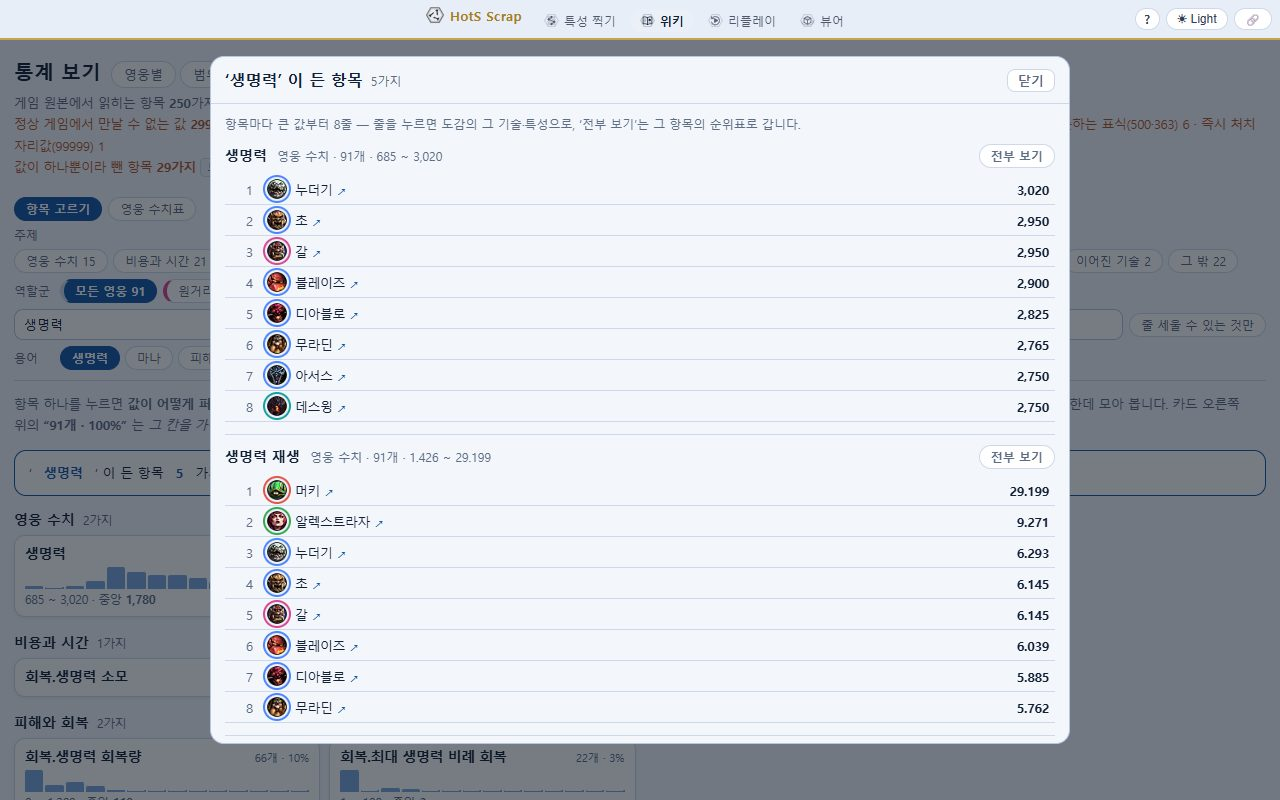
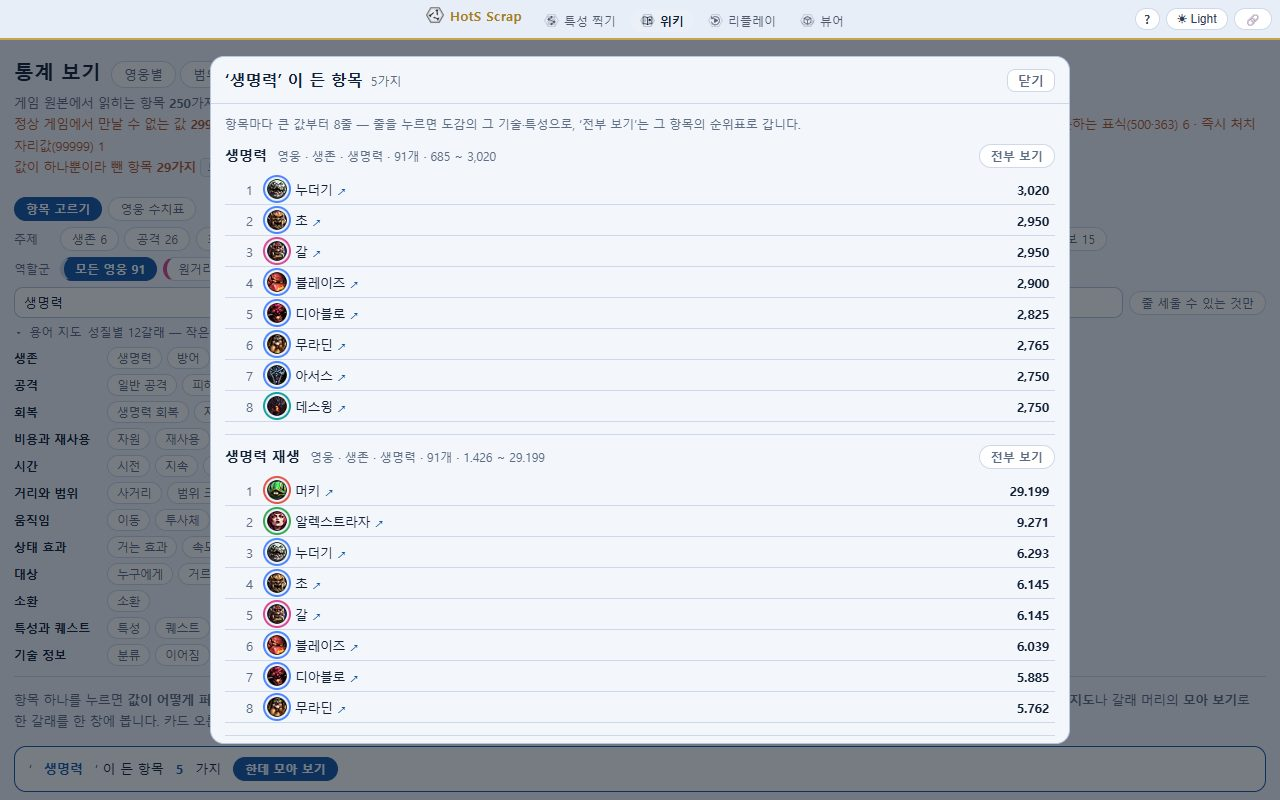
영웅 도감: 통계 보기 항목을 성질별 12갈래 · 34가지로 다시 묶음
- 정규식 주제 대신 분류표(큰 갈래 → 작은 갈래): 생존 · 공격 · 회복 · 비용과 재사용 · 시간 · 거리와 범위 ·
  움직임 · 상태 효과 · 대상 · 소환 · 특성과 퀘스트 · 기술 정보 — 250가지 모두 한 곳에만 들어감(확인)
- 용어 지도: 큰 갈래마다 작은 갈래 단추, 누르면 그 갈래 항목을 한 창에 모아 봄 · 갈래 머리에도 '모아 보기'
- 항목 이름 '거는 효과.방어력' 은 앞을 옅게, 어디서 읽은 값인지(영웅 · 기술 · 특성 …) 작은 딱지
- 사용법 글과 사진 맞춤

diff --git a/site/herodex/stats.html b/site/herodex/stats.html
@@ -153,6 +153,22 @@
   .tsec h3 { margin:0 0 6px; font-size:14px; display:flex; flex-wrap:wrap; align-items:baseline; gap:4px 10px; }
   .tsec h3 span { font-size:12px; color:var(--dim); font-weight:400; }
   .tsec .all { margin-left:auto; }
+  .tsec h3 .pre, .f h3 .pre { color:var(--dim); font-weight:400; }
+  .f h3 .fn { min-width:0; }
+  .f h3 .src, .tsec h3 .src { font-size:10.5px; color:var(--dim); border:1px solid var(--line); border-radius:6px; padding:0 5px; font-weight:400; white-space:nowrap; }
+  .subh { margin:10px 0 6px; font-size:12.5px; display:flex; align-items:center; gap:8px; color:var(--fg); }
+  .subh span { color:var(--dim); font-size:11px; font-weight:400; }
+  .topic > h2 .pill, .subh .pill { margin-left:auto; }
+  .pill.sm { font-size:11.5px; padding:2px 9px; }
+  details.tmap { display:block; }
+  details.tmap > summary { cursor:pointer; list-style:none; display:flex; align-items:baseline; gap:6px; }
+  details.tmap > summary::-webkit-details-marker { display:none; }
+  details.tmap > summary::before { content:'▸'; color:var(--dim); font-size:11px; }
+  details.tmap[open] > summary::before { content:'▾'; }
+  .tmsum { color:var(--dim); font-size:12px; }
+  #terms { display:grid; gap:5px; margin-top:7px; }
+  .tgrp { display:flex; flex-wrap:wrap; align-items:center; gap:4px 5px; }
+  .tgrp > b { font-size:12px; min-width:88px; color:var(--fg); }
 </style>
 </head>
 <body>
@@ -172,12 +188,12 @@
       <input type="search" id="q" placeholder="항목 찾기 (사거리·피해·재사용…)">
       <button class="pill" id="onlynum">줄 세울 수 있는 것만</button>
     </div>
-    <div class="row" id="termrow"><span class="lab">용어</span><span id="terms"></span></div>
+    <details class="row tmap" id="termrow"><summary><span class="lab">용어 지도</span> <span class="tmsum">성질별 12갈래 — 작은 갈래를 누르면 그 항목을 한데 모아 봅니다</span></summary><div id="terms"></div></details>
   </div>
 
   <p class="note" style="margin:2px 0 14px; font-size:12.5px;">
     항목 하나를 누르면 <b>값이 어떻게 퍼져 있는지</b>와 <b>어느 기술·특성이 그 값을 가지는지</b>가 펼쳐집니다.
-    값 한 줄을 누르면 도감의 그 기술·특성으로 갑니다. <b>용어</b>를 고르면 그 말이 들어간 항목을 한데 모아 봅니다.
+    값 한 줄을 누르면 도감의 그 기술·특성으로 갑니다. 항목은 <b>성질별 12갈래</b>로 묶었고, <b>용어 지도</b>나 갈래 머리의 <b>모아 보기</b>로 한 갈래를 한 창에 봅니다.
     카드 오른쪽 위의 <b>“91개 · 100%”</b> 는 <i>그 칸을 가진 것의 수</i>와 <i>전체 가운데 몇 %가 그 칸을 가지는지</i>입니다.
   </p>
   <div id="catalog"></div>
@@ -206,23 +222,23 @@ const fmt = v => {
   return r.toLocaleString('ko-KR');
 };
 
-/* **주제로 묶는다.** 자료를 만든 갈래(기술·위키식·원자료…)는 어디서 읽었나이지
-   무엇에 대한 값인가가 아니다. 고르는 사람에게는 뒤쪽이 필요하다. */
-const TOPIC = [
-  ['영웅 수치',   f => f.갈래 === '기본' || f.갈래 === '평타'],
-  ['비용과 시간', f => /재사용|연타 제한|시전 시간|마무리 시간|충전|마나|분노|고철|광기|취기|기력|탄약|에너지|자원|생명력 소모|처음 지연/.test(f.이름)],
-  ['날아가는 것', f => /투사체|날아가|튕기는|질주|밀침|밀리는|가속도|오는 방향|이동 거리/.test(f.이름)],
-  ['거리와 크기', f => /사거리|반지름|너비|높이|각도|히트박스|도형거리|끌기 범위|나오는 범위|부채꼴|가로|세로|크기|안쪽|바깥|뿌리는 구역|자리 패턴|나란히|둘러싼|연속 판정|방향/.test(f.이름)],
-  ['피해와 회복', f => /피해|회복|성장|흡수|틱|보호막|치유/.test(f.이름)],
-  ['소환',        f => /소환|나오는|마리|유닛/.test(f.이름)],
-  ['효과와 지속', f => /지속|주기|간격|반복|이동 속도|공격 속도|방어력|기절|감속|중첩|기술 추가|상태|보정|효과|커지는|부른 횟수|단계/.test(f.이름)],
-  ['누구에게',    f => /대상|영향|지정|고르는 차례|찾는|최대 대상|빼는/.test(f.이름)],
-  ['퀘스트와 특성', f => /퀘스트|보상|레벨|강화|툴팁 수치|예외/.test(f.이름)],
-  ['분류와 이름', f => /유형|속성|범위|기준|종류|모양|방식|갈래|칸$|모드|탈것|이름/.test(f.이름)],
-  ['이어진 기술', f => /이어짐|이어받음|딸린 곳|같은 칸/.test(f.이름)],
-  ['그 밖',       () => true],
-];
-const topicOf = f => (TOPIC.find(([, t]) => t(f)) || ['그 밖'])[0];
+/* **성질로 묶는다.** 자료를 만든 갈래(기술·위키식·원자료…)는 어디서 읽었나이지
+   무엇에 대한 값인가가 아니다. 큰 갈래 12 → 작은 갈래로 두 번 묶는다.
+   [큰 갈래, 한 줄 풀이, [[작은 갈래, [항목…]]…]] — '갈래|이름' 은 그 갈래만, 이름만 쓰면 모든 갈래.
+   '갈래|이름' 규칙이 먼저 잡는다(평타|사거리 · 기본|반지름). 표에 없는 새 항목은 '그 밖' 으로 간다. */
+const CLASSES = [["생존","얼마나 버티나 — 생명력 · 방어 · 보호막",[["생명력",["기본|생명력","기본|생명력 재생"]],["방어",["거는 효과.방어력","거는 효과.기술 방어력","거는 효과.받는 피해"]],["보호막",["거는 효과.피해 흡수"]]]],["공격","얼마나 아프게 — 일반 공격과 피해량",[["일반 공격",["평타|_이름","평타|사거리","평타|주기","평타|초당 공격","평타|방식","평타|공격력","평타|부채꼴","기본|공격 사거리","기본|공격 사거리(최대)"]],["피해량",["피해.피해량","피해.1회당","피해.툴팁 표기","피해","총 피해","틱당 피해","조건부 피해","아군이 주는 피해"]],["피해 성질",["피해.종류","피해.기술 위력 적용","피해.성장"]],["레벨 성장",["성장"]]]],["회복","얼마나 채우나 — 생명력 · 자원 회복",[["생명력 회복",["회복.생명력 회복량","회복.최대 생명력 비례 회복","회복.1회당","회복.툴팁 표기","회복.성장","회복","거는 효과.주는 치유량"]],["자원 회복",["회복.마나 회복량","회복.마나 회복","회복.최대 마나 비례 회복","회복.분노 회복","회복.광기 회복"]]]],["비용과 재사용","쓰는 데 드는 것 — 자원 · 재사용",[["자원",["기본|자원","마나","기력","분노","취기","회복.생명력 소모","회복.마나 소모","회복.기력 소모"]],["재사용",["재사용 대기시간","충전 개수","연타 제한","재사용 조정.재사용 조정","재사용 조정.대상 기술"]]]],["시간","언제 · 얼마 동안 — 시전 · 지속 · 주기",[["시전",["시전 시간","마무리 시간","모으는 시간"]],["지속",["거는 효과.지속 시간","지속","지속 효과.유지 시간","지속 시간 조정.지속 시간 조정"]],["주기와 반복",["거는 효과.주기","지속 효과.반복 횟수","지속 효과.간격","지속 효과.반복","틱 속도","틱 속도(날것)","갱신 틱"]]]],["거리와 범위","어디까지 · 얼마나 넓게",[["사거리",["사거리","최소 사거리","도형거리","전거리","끌기 범위"]],["범위 크기",["범위.반지름","반지름","범위.작은 반지름","범위.안쪽 반지름","범위.가로","범위.세로","너비","높이","범위.부채꼴","부채꼴","각도","범위.띠 두께","히트박스","아군 반지름","범위.커지는 양","찾는 반지름"]],["범위 모양",["범위","모양","자리 패턴","나란히","둘러싼 수","뿌리는 구역","범위.단계","범위.부른 횟수"]],["범위 움직임",["범위.날아가며","범위.따라감","범위.방향","연속 판정","지속 효과.앞으로","지속 효과.제자리부터","휩쓰는 차례","휩쓰는 쪽","휩쓰는 꼴","휩쓰는 시간","도는 바퀴","도는 시간","도는 꼴"]],["몸집과 시야",["기본|반지름","기본|시야"]]]],["움직임","얼마나 빠르게 · 어디로",[["이동",["기본|이동 속도","이동 거리(추정)","질주 속도","질주 거리","돌진 거리"]],["투사체",["투사체 속도","투사체.방식","투사체.최대 속도","투사체.속도","투사체.가속도","투사체.최소 속도","속도 바뀜","속도가 다른 까닭","투사체.튕기는 거리","투사체.튕기는 횟수","튕기는 거리","튕기는 횟수","오는 방향"]],["밀침",["밀침.속도","밀침.지속 시간","밀침.거리","밀침 속도","밀침 지속","밀리는 거리"]],["순간이동",["순간이동.내려놓는 각도","순간이동.내려놓는 범위","순간이동.기준"]]]],["상태 효과","맞으면 · 쓰면 걸리는 것",[["거는 효과",["거는 효과.종류","거는 효과.상태","효과","거는 효과.성장"]],["속도 변화",["거는 효과.이동 속도","거는 효과.공격 속도"]],["강화",["거는 효과.기술 피해량","거는 효과.일반 공격 피해량","거는 효과.기술 추가","보정"]]]],["대상","누구에게 · 몇에게",[["누구에게",["대상","범위.대상","지정","영향","기준","찾는 대상","아군 범위"]],["거르기와 수",["범위.빼는 대상","빼는 대상","범위.최대 대상","최소 대상","범위.고르는 차례","고르는 차례"]]]],["소환","불러내는 것",[["소환",["소환.유닛","소환.마리 수","소환.나오는 범위","소환","나오는 범위","나오는 자리"]]]],["특성과 퀘스트","레벨에서 고르고 · 쌓아서 바뀌는 것",[["특성",["특성|레벨","특성|강화","특성 강화.단계","특성 강화.내용","특성 전","보상 갈래"]],["퀘스트",["퀘스트","퀘스트 점수.한 번에","퀘스트로 바뀜.칸","퀘스트로 바뀜.전","퀘스트로 바뀜.값","퀘스트로 바뀜.방식","퀘스트로 바뀜.단위"]]]],["기술 정보","어떤 기술인가 — 분류 · 이어짐 · 툴팁",[["분류",["유형","속성","칸","모드","탈것","예외"]],["이어짐",["이어받음","이어짐","같은 칸","지속 효과.이어짐"]],["툴팁 수치",["툴팁 수치.칸","툴팁 수치.값","툴팁 수치.단위"]]]]];
+const 갈래규칙 = new Map(), 이름규칙 = new Map();
+for (const [큰, , 작들] of CLASSES)
+  for (const [작, 것들] of 작들) for (const x of 것들) (x.includes('|') ? 갈래규칙 : 이름규칙).set(x, [큰, 작]);
+const 분류of = f => 갈래규칙.get(f.열쇠) || 이름규칙.get(f.이름) || ['그 밖', '그 밖'];
+const topicOf = f => 분류of(f)[0];
+const TOPIC = [...CLASSES.map(([큰]) => [큰]), ['그 밖']];          // 차례만 쓴다
+const 큰풀이 = new Map(CLASSES.map(([큰, 말]) => [큰, 말]));
+const 작차례 = 큰 => ((CLASSES.find(c => c[0] === 큰) || [0, 0, []])[2].map(([작]) => 작)).concat(['그 밖']);
+/* 항목 이름 '거는 효과.방어력' 은 앞(묶음)을 옅게, 뒤(뜻)를 진하게 */
+const 이름글 = n => { const i = n.indexOf('.'); return i > 0 ? `<span class="pre">${esc(n.slice(0, i))} ·</span> ${esc(n.slice(i + 1))}` : esc(n); };
+/* 같은 이름이 여러 갈래에 있다(사거리 = 기술 원본 · 기술 위키식 · 특성) — 어디서 읽은 값인지 작게 */
+const 출처말 = { '기본': '영웅', '평타': '평타', '기술': '기술', '원자료': '기술 세부', '위키식': '기술 위키식', '특성': '특성', '특성 위키식': '특성 위키식' };
 
 let DB = null, ROWS = null, TAB = '칸', TOPIC_ON = new Set(), ONLYNUM = false, OPEN = null, SHOW = 60;
 /* 대상 한 줄([영웅, 이름, 갈래, 짧은 표, 자리 id]) → 도감 주소. 자리 id 가 있으면 그 기술·특성으로 바로 간다 */
@@ -231,8 +247,6 @@ function 도감길(e) {
   const id = HID.get(e[0]);
   return id ? `./?hero=${encodeURIComponent(id)}${e[4] ? `&at=${encodeURIComponent(e[4])}` : ''}` : '';
 }
-/* 자주 찾는 말 — 눌러서 찾기 칸에 넣는다(항목 이름에 그 말이 든 것을 한데 모은다) */
-const TERMS = ['생명력', '마나', '피해', '회복', '보호막', '사거리', '반지름', '재사용', '지속', '이동 속도', '공격 속도', '방어력'];
 
 /* ── 항목 카드 ─────────────────────────────────────────────── */
 function card(f) {
@@ -245,7 +259,7 @@ function card(f) {
   const line = f.꼴 === '수' && f.요약
     ? `${fmt(f.요약.최소)} ~ ${fmt(f.요약.최대)} · 중앙 <b>${fmt(f.요약.중앙)}</b>`
     : (f.값 && f.값.length ? `${f['값 수']}가지 · 으뜸 <b>${esc(f.값[0][0])}</b> ${f.값[0][1]}` : '');
-  return `<button class="f" data-k="${esc(f.열쇠)}"><h3>${esc(f.이름)}`
+  return `<button class="f" data-k="${esc(f.열쇠)}"><h3><span class="fn">${이름글(f.이름)}</span><span class="src">${esc(출처말[f.갈래] || f.갈래)}</span>`
        + `<span class="cov" title="이 칸을 가진 것이 ${f.수}개 — 모든 기술·특성 가운데 ${Math.round(f.덮음 * 100)}% 가 이 칸을 가집니다">${f.수}개 · ${Math.round(f.덮음 * 100)}%</span></h3>`
        + mini + `<div class="line">${line}</div>`
        + (f['뺀 것'] ? `<div class="drop">뺀 값 ${f['뺀 것'].reduce((a, b) => a + b[1], 0)}개</div>` : '')
@@ -258,17 +272,27 @@ function drawCatalog() {
        (!TOPIC_ON.size || TOPIC_ON.has(topicOf(f)))
     && (!ONLYNUM || f.꼴 === '수')
     && (!q || f.이름.toLowerCase().includes(q)));
-  const by = new Map();
-  for (const f of keep) { const t = topicOf(f); if (!by.has(t)) by.set(t, []); by.get(t).push(f); }
-  document.getElementById('terms').innerHTML = TERMS.map(w =>
-    `<button class="pill${q === w.toLowerCase() ? ' on' : ''}" data-term="${esc(w)}">${esc(w)}</button>`).join(' ');
+  const by = new Map();                       // 큰 갈래 → (작은 갈래 → 항목들)
+  for (const f of keep) {
+    const [큰, 작] = 분류of(f);
+    if (!by.has(큰)) by.set(큰, new Map());
+    const m = by.get(큰); if (!m.has(작)) m.set(작, []); m.get(작).push(f);
+  }
   const bar = q && keep.length > 1
     ? `<div class="termbar">‘<b>${esc(q)}</b>’ 이 든 항목 <b>${keep.length}</b>가지`
       + `<button class="pill on" id="termall">한데 모아 보기</button></div>` : '';
   document.getElementById('catalog').innerHTML = bar + (keep.length
-    ? TOPIC.map(([t]) => by.has(t)
-        ? `<section class="topic"><h2>${esc(t)}<span>${by.get(t).length}가지</span></h2>`
-          + `<div class="grid">${by.get(t).map(card).join('')}</div></section>` : '').join('')
+    ? TOPIC.map(([큰]) => {
+        const m = by.get(큰);
+        if (!m) return '';
+        const 작들 = 작차례(큰).filter(작 => m.has(작)), n = [...m.values()].reduce((a, l) => a + l.length, 0);
+        const 하나 = 작들.length === 1 && 작들[0] === 큰;      // 소환처럼 작은 갈래가 저 하나뿐이면 머리줄을 겹치지 않는다
+        const 모아 = (작, l) => l.length > 1 ? `<button class="pill sm" data-sub="${esc(큰 + '|' + 작)}">모아 보기</button>` : '';
+        return `<section class="topic"><h2>${esc(큰)}<span>${esc(큰풀이.get(큰) || '')} · ${n}가지</span>${하나 ? 모아(큰, m.get(큰)) : ''}</h2>`
+          + 작들.map(작 => (하나 ? '' : `<h4 class="subh">${esc(작)}<span>${m.get(작).length}가지</span>${모아(작, m.get(작))}</h4>`)
+                         + `<div class="grid">${m.get(작).map(card).join('')}</div>`).join('')
+          + `</section>`;
+      }).join('')
     : `<p class="note">걸리는 항목이 없습니다.</p>`);
   document.getElementById('sub').innerHTML =
     `게임 원본에서 읽히는 항목 <b>${DB.칸.length}</b>가지 가운데 <b>${keep.length}</b>가지 · `
@@ -421,12 +445,19 @@ async function openTerm() {
   const q = (document.getElementById('q').value || '').trim().toLowerCase();
   const fs = DB.칸.filter(f => (!TOPIC_ON.size || TOPIC_ON.has(topicOf(f))) && (!ONLYNUM || f.꼴 === '수')
                             && f.이름.toLowerCase().includes(q));
+  return openGroup(`‘${q}’ 이 든 항목`, fs);
+}
+function openSub(key) {
+  const [큰, 작] = key.split('|');
+  return openGroup(`${큰} · ${작}`, DB.칸.filter(f => { const c = 분류of(f); return c[0] === 큰 && c[1] === 작; }));
+}
+async function openGroup(제목, fs) {
   if (!fs.length) return;
   OPEN = null;
   const 창 = body => {
     document.getElementById('pane')?.remove();
     document.body.insertAdjacentHTML('beforeend', `<div class="pane" id="pane"><div class="box">`
-      + `<div class="bhead"><h2>‘${esc(q)}’ 이 든 항목<span class="cov" style="color:var(--dim);font-size:12px;font-weight:400">${fs.length}가지</span>`
+      + `<div class="bhead"><h2>${esc(제목)}<span class="cov" style="color:var(--dim);font-size:12px;font-weight:400">${fs.length}가지</span>`
       + `<button class="x" id="close">닫기</button></h2></div><div class="bbody">${body}</div></div></div>`);
   };
   if (!ROWS) { 창('<p class="note">값 목록을 받는 중…</p>'); ROWS = await fetch('../data/herodex/stats-rows.json').then(r => r.json()); }
@@ -450,12 +481,13 @@ async function openTerm() {
       rows = [...cnt.entries()].sort((a, b) => b[1] - a[1]).slice(0, 줄수)
         .map(([v, n], i) => `<tr><td class="i">${i + 1}</td><td colspan="2">${esc(v)}</td><td class="v">${n}개</td></tr>`).join('');
     }
-    return `<section class="tsec"><h3>${esc(f.이름)}<span>${esc(topicOf(f))} · ${f.수}개${f.꼴 === '수' && f.요약 ? ` · ${fmt(f.요약.최소)} ~ ${fmt(f.요약.최대)}` : ''}</span>`
+    return `<section class="tsec"><h3>${이름글(f.이름)}<span>${esc(출처말[f.갈래] || f.갈래)} · ${esc(분류of(f).join(' · '))} · ${f.수}개${f.꼴 === '수' && f.요약 ? ` · ${fmt(f.요약.최소)} ~ ${fmt(f.요약.최대)}` : ''}</span>`
       + `<button class="pill all" data-open="${esc(f.열쇠)}">전부 보기</button></h3>`
       + (rows ? `<table class="rank">${rows}</table>` : `<p class="note">고른 역할군에는 없습니다.</p>`) + `</section>`;
   };
   const 차례 = TOPIC.map(([t]) => t);
-  fs.sort((a, b) => 차례.indexOf(topicOf(a)) - 차례.indexOf(topicOf(b)) || b.수 - a.수);
+  fs = fs.slice().sort((a, b) => 차례.indexOf(topicOf(a)) - 차례.indexOf(topicOf(b))
+                         || 작차례(topicOf(a)).indexOf(분류of(a)[1]) - 작차례(topicOf(a)).indexOf(분류of(b)[1]) || b.수 - a.수);
   창(`<p class="note" style="margin-top:0">항목마다 큰 값부터 ${줄수}줄 — 줄을 누르면 도감의 그 기술·특성으로, ‘전부 보기’는 그 항목의 순위표로 갑니다.</p>`
      + fs.map(섹션).join(''));
 }
@@ -532,6 +564,10 @@ function draw() {
 fetch('../data/herodex/stats.json').then(r => r.json()).then(d => {
   DB = d;
   HID = new Map(d.영웅.map(h => [h.영웅, h.id]));
+  document.getElementById('terms').innerHTML = CLASSES.map(([큰, 말, 작들]) =>
+    `<div class="tgrp"><b title="${esc(말)}">${esc(큰)}</b>`
+    + 작들.map(([작]) => `<button class="pill sm" data-sub="${esc(큰 + '|' + 작)}">${esc(작)}</button>`).join('') + `</div>`).join('');
+  document.getElementById('termrow').open = matchMedia('(min-width:900px)').matches;   // 넓은 화면은 펼쳐 둔다
   const ts = TOPIC.map(([t]) => t).filter(t => d.칸.some(f => topicOf(f) === t));
   document.getElementById('topics').innerHTML = ts.map(t =>
     `<button class="pill" data-t="${esc(t)}">${esc(t)} ${d.칸.filter(f => topicOf(f) === t).length}</button>`).join(' ');
@@ -573,12 +609,8 @@ document.addEventListener('click', e => {
   const tp = e.target.closest('[data-t]');
   if (tp) { const k = tp.dataset.t; TOPIC_ON.has(k) ? TOPIC_ON.delete(k) : TOPIC_ON.add(k); tp.classList.toggle('on'); drawCatalog(); return; }
   if (e.target.id === 'onlynum') { ONLYNUM = !ONLYNUM; e.target.classList.toggle('on', ONLYNUM); drawCatalog(); return; }
-  const tm = e.target.closest('[data-term]');
-  if (tm) {
-    const q = document.getElementById('q');
-    q.value = q.value.trim() === tm.dataset.term ? '' : tm.dataset.term;
-    drawCatalog(); return;
-  }
+  const sb = e.target.closest('[data-sub]');
+  if (sb) { openSub(sb.dataset.sub); return; }
   if (e.target.id === 'termall') { openTerm(); return; }
   const op = e.target.closest('[data-open]');
   if (op) { openField(op.dataset.open); return; }

diff --git a/site/guide/index.html b/site/guide/index.html
@@ -321,10 +321,10 @@
     <figure class="shot" data-shot="stats"></figure>
     <ol class="marks" data-shot="stats">
       <li><b>항목 고르기 / 영웅 수치표</b> — 칸별로 보기, 영웅 91명 기본 수치를 표로 보기.</li>
-      <li><b>주제</b> — 영웅 수치·비용과 시간·거리와 크기 같은 묶음으로 거릅니다.</li>
+      <li><b>주제</b> — 생존·공격·회복·비용과 재사용·시간·거리와 범위 같은 <b>성질별 12갈래</b>로 거릅니다.</li>
       <li><b>역할군</b> — 한 역할군만 보거나 <b>역할군으로 묶기</b>로 나눠 봅니다.</li>
       <li><b>항목 찾기</b>(사거리·피해·재사용…) · <b>줄 세울 수 있는 것만</b>(숫자 칸만).</li>
-      <li><b>용어</b> — 생명력·마나·피해 같은 말을 누르면 그 말이 든 항목만 남고, 위에 <b>한데 모아 보기</b>가 뜹니다.</li>
+      <li><b>용어 지도</b> — 12갈래마다 작은 갈래(생명력 · 방어 · 피해량 · 재사용 …)가 있습니다. 누르면 그 갈래 항목을 한 창에 모아 봅니다. 찾기 칸에 말을 쳐도 위에 <b>한데 모아 보기</b>가 뜹니다.</li>
       <li><b>항목 카드</b> — 값이 퍼진 모양(막대)과 범위·중앙값. 오른쪽 위 "91개 · 100%"는 그 칸을 가진 수와 비율입니다. 누르면 아래처럼 펼쳐집니다.</li>
     </ol>
   </div>

diff --git a/tools/guide_shots.py b/tools/guide_shots.py
@@ -145,12 +145,13 @@ SHOTS = [
                 ["button.f >> text=갈래", "button.f >> text=튕김"], ["button.f >> text=기술", "button.f >> text=특성"],
                 ".fig >> nth=0", ".cvd >> nth=0", "a.go >> nth=0"]),
     dict(id="stats", url="herodex/stats.html",
-         marks=["button.tab >> text=항목 고르기", "button.pill >> nth=0", "#group", ["#q", "#onlynum"], "#terms", "button.f >> nth=0"]),
+         do=[lambda pg: pg.evaluate("document.getElementById('termrow').open = false")],   # 용어 지도를 접어야 항목 카드가 사진에 든다
+         marks=["button.tab >> text=항목 고르기", "button.pill >> nth=0", "#group", ["#q", "#onlynum"], "#termrow > summary", "button.f >> nth=0"]),
     dict(id="stats-open", url="herodex/stats.html",
          do=[lambda pg: (pg.click(".topic >> nth=1 >> button.f >> nth=0"), pg.wait_for_timeout(1200))],
          marks=[["text=큰 값부터", "text=작은 값부터"], "text=닫기", "#pane tr.go >> nth=0"]),
     dict(id="stats-term", url="herodex/stats.html",
-         do=[lambda pg: (pg.click('[data-term="생명력"]'), pg.wait_for_timeout(300),
+         do=[lambda pg: (pg.fill("#q", "생명력"), pg.wait_for_timeout(300),
                          pg.click("#termall"), pg.wait_for_timeout(1500))],
          marks=[".tsec >> nth=0", "#pane button.all >> nth=0", "#pane .tsec tr.go >> nth=0"]),
     dict(id="stats-table", url="herodex/stats.html",
